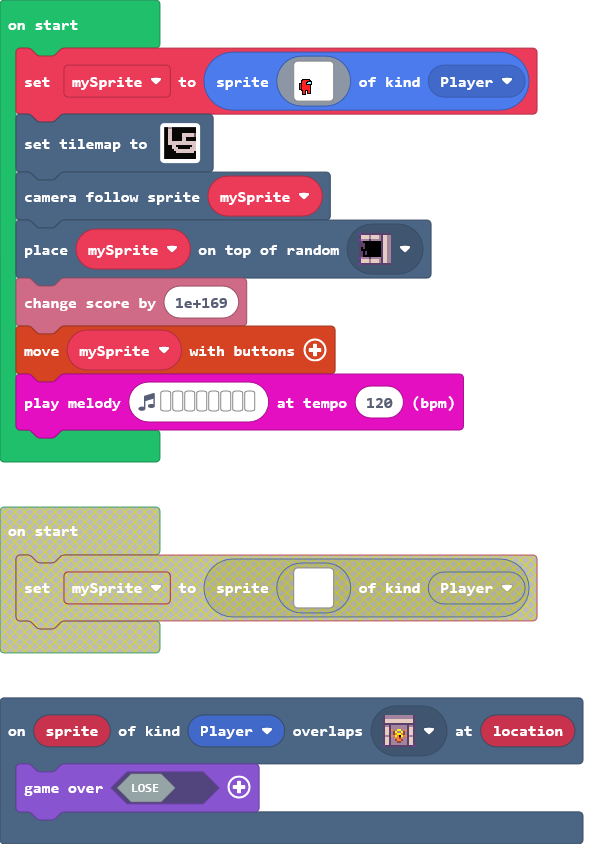
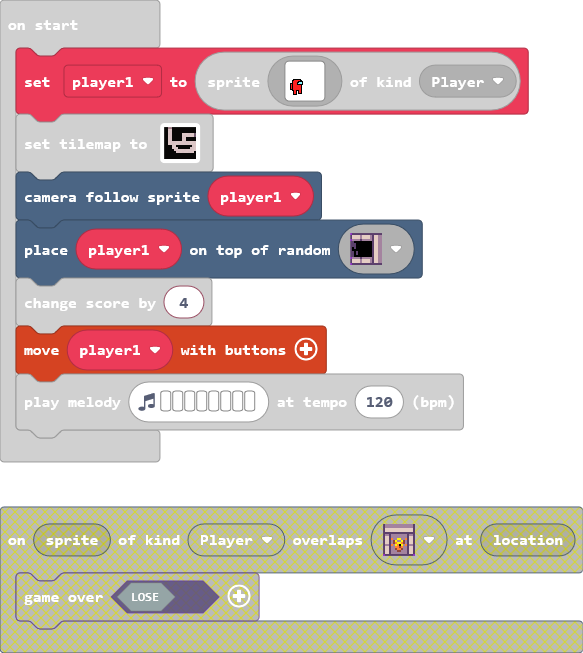
pain

diff --git a/main.ts b/main.ts
@@ -1,7 +1,4 @@
-scene.onOverlapTile(SpriteKind.Player, sprites.dungeon.doorLockedNorth, function (sprite, location) {
-    game.over(false)
-})
-let mySprite = sprites.create(img`
+let player1 = sprites.create(img`
     ................................
     ................................
     ................................
@@ -53,8 +50,8 @@ tiles.setTilemap(tiles.createTilemap(hex`100010000604010104040504040406060606040
     . . . . . . . . . . . . . . . . 
     . . . . . . . . . . . . . . . . 
     `, [myTiles.transparency16,sprites.dungeon.doorLockedNorth,sprites.dungeon.floorLight0,sprites.dungeon.floorLight1,myTiles.tile1,myTiles.tile2,myTiles.tile3,sprites.dungeon.doorOpenEast], TileScale.Sixteen))
-scene.cameraFollowSprite(mySprite)
-tiles.placeOnRandomTile(mySprite, sprites.dungeon.doorOpenEast)
-info.changeScoreBy(1e+169)
-controller.moveSprite(mySprite)
+scene.cameraFollowSprite(player1)
+tiles.placeOnRandomTile(player1, sprites.dungeon.doorOpenEast)
+info.changeScoreBy(4)
+controller.moveSprite(player1)
 music.playMelody("- - - - - - - - ", 120)
